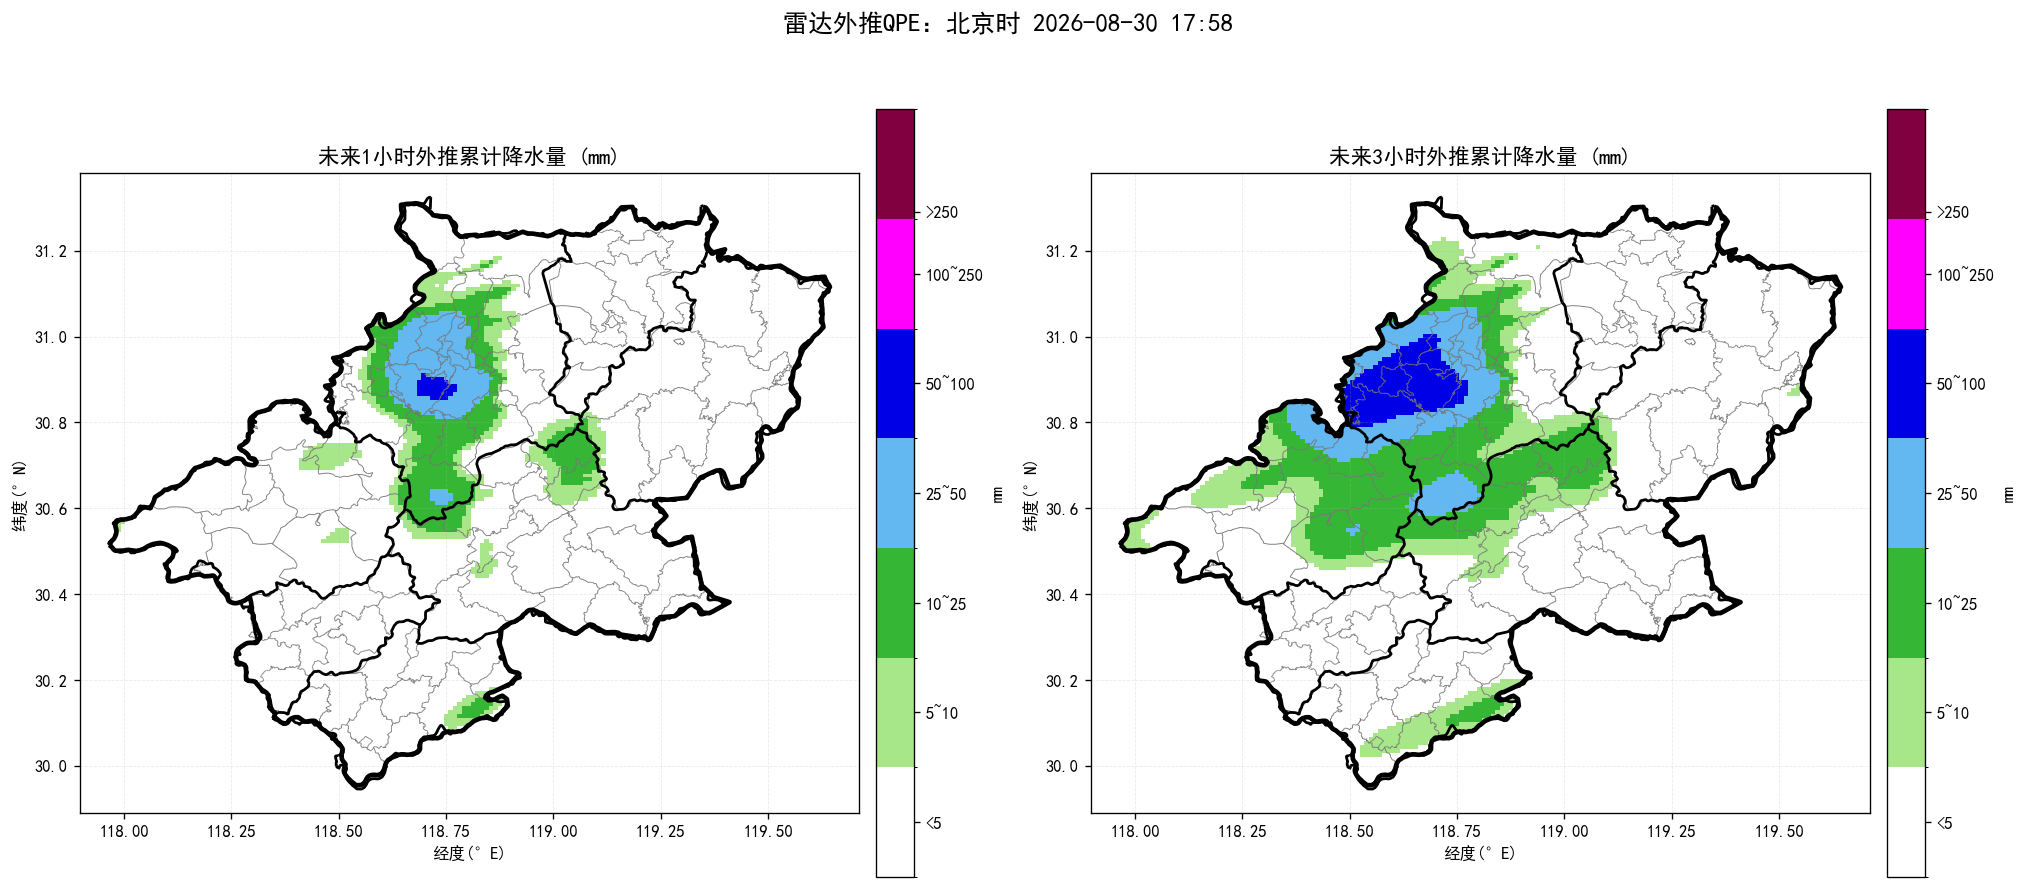
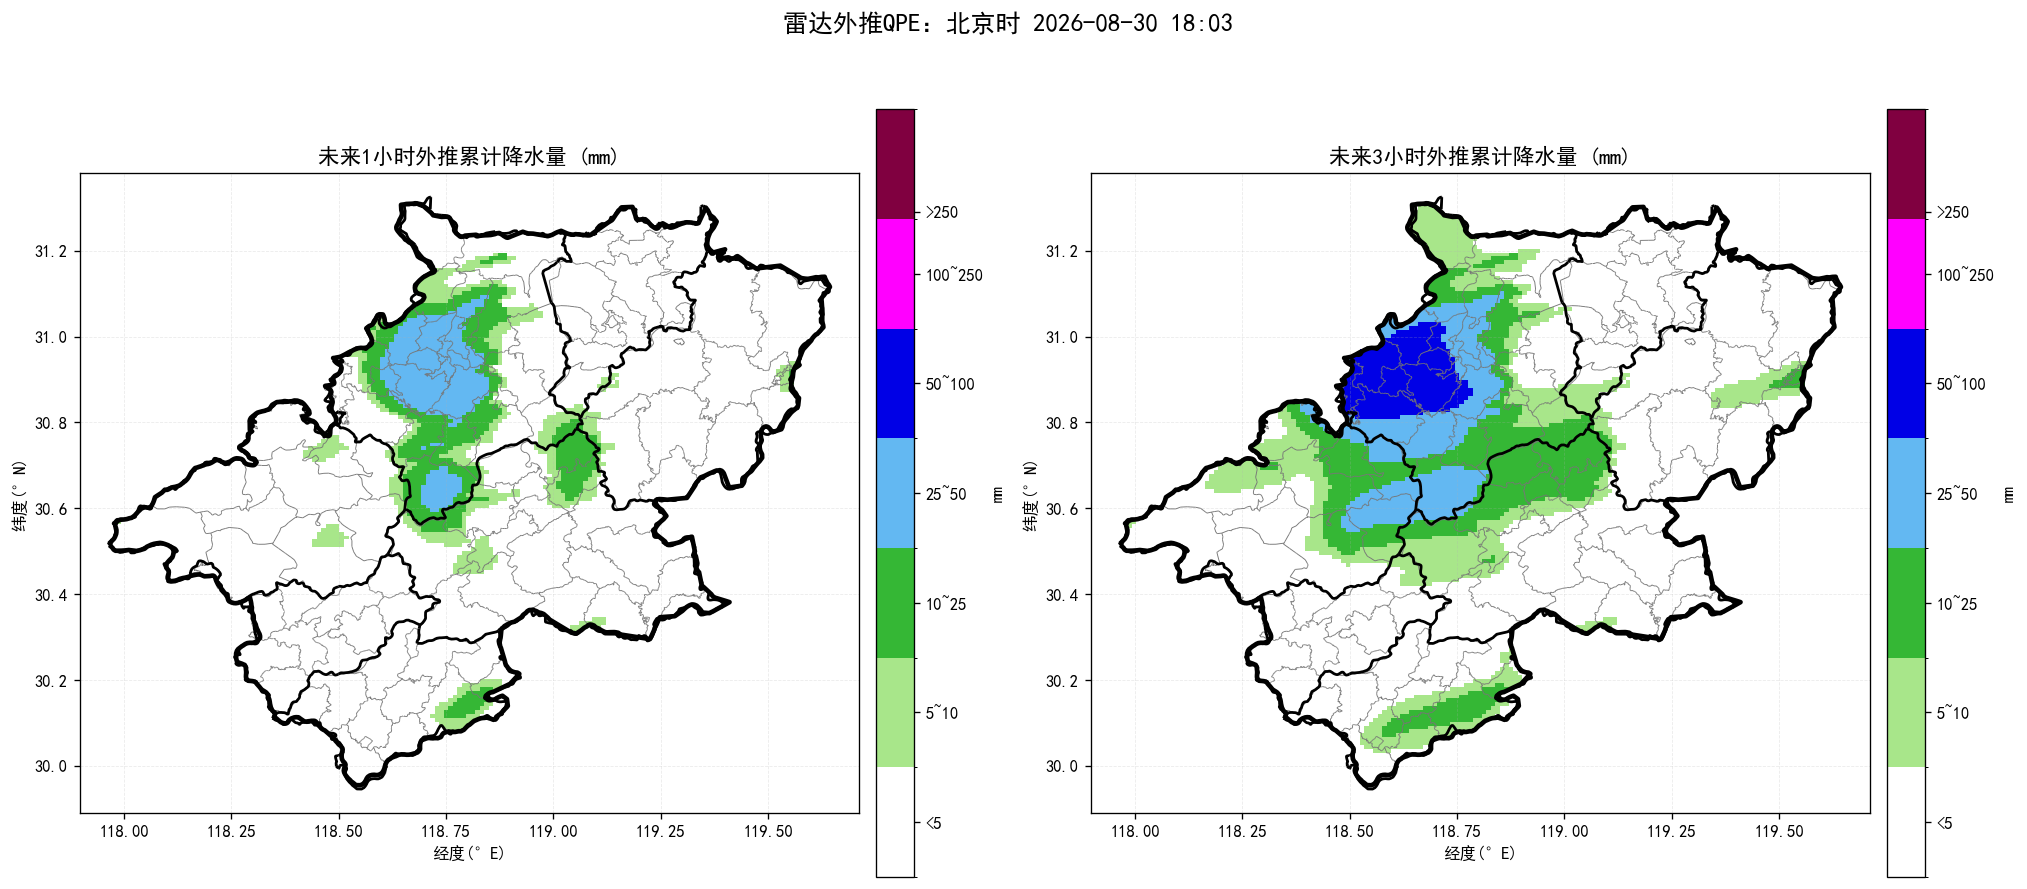
update nowcast products

diff --git a/index.html b/index.html
@@ -14,14 +14,14 @@ img.product{display:block;width:100%;height:auto;margin:10px auto 26px;border:1p
 .footer{font-size:13px;color:#777;text-align:center;margin-top:30px}
 @media(max-width:700px){.sheet{margin:0;padding:18px 15px}.alert-title{font-size:22px}.county-line{font-size:17px}.prob{font-size:18px}}
 </style></head><body><main class="sheet">
-<div class="time">起报时间：北京时 2026-08-30 17:58</div>
-<div class="alert-title">未来一小时降水量超过 20 毫米的乡镇：</div><div class="county-line">宣州区：金坝街道、向阳镇、鳌峰街道、飞彩街道、西林街道、敬亭山街道、古泉镇、澄江街道、济川街道、养贤乡、五星乡、周王镇、黄渡乡、杨柳镇、双桥街道、新田镇、朱桥乡、溪口镇、寒亭镇、孙埠镇、沈村镇；</div><div class="county-line">宁国市：天湖街道</div>
-<div class="alert-title">未来三小时降水量超过 50 毫米的乡镇：</div><div class="county-line">宣州区：金坝街道、杨柳镇、向阳镇、鳌峰街道、飞彩街道、古泉镇、文昌镇、寒亭镇、敬亭山街道；</div><div class="county-line">宁国市：天湖街道；</div><div class="county-line">泾县：琴溪镇</div>
-<div class="alert-title">未来三小时雷暴大风（组合反射率 > 55 dBZ）的乡镇：</div><div class="county-line">宣州区：向阳镇</div>
-<div class="prob">最大降水量概率预估：宣城市范围内未来三小时累计降水达到50毫米概率约99%，达到80毫米概率约85%，达到100毫米概率约46%。</div>
-<div class="section-title">未来降水预报图：</div><img class="product auto-refresh-product" data-src="短临降水预报.png" src="短临降水预报.png?v=20260830180401" alt="未来降水预报图">
-<div class="section-title">未来三小时组合反射率图：</div><img class="product auto-refresh-product" data-src="未来3小时组合反射率.png" src="未来3小时组合反射率.png?v=20260830180401" alt="未来三小时组合反射率图">
-<div class="section-title">未来三小时雷暴大风图：</div><img class="product auto-refresh-product" data-src="未来3小时雷暴大风.png" src="未来3小时雷暴大风.png?v=20260830180401" alt="未来三小时雷暴大风图">
+<div class="time">起报时间：北京时 2026-08-30 18:03</div>
+<div class="alert-title">未来一小时降水量超过 20 毫米的乡镇：</div><div class="county-line">宣州区：金坝街道、向阳镇、古泉镇、飞彩街道、鳌峰街道、西林街道、敬亭山街道、澄江街道、济川街道、溪口镇、寒亭镇、五星乡、双桥街道、养贤乡、黄渡乡、周王镇、杨柳镇、朱桥乡、新田镇、沈村镇、孙埠镇；</div><div class="county-line">宁国市：天湖街道、青龙乡、汪溪街道</div>
+<div class="alert-title">未来三小时降水量超过 50 毫米的乡镇：</div><div class="county-line">宣州区：金坝街道、古泉镇、杨柳镇、寒亭镇、飞彩街道、向阳镇、文昌镇、鳌峰街道、敬亭山街道、西林街道、周王镇；</div><div class="county-line">宁国市：天湖街道；</div><div class="county-line">泾县：琴溪镇</div>
+<div class="alert-title">未来三小时雷暴大风（组合反射率 > 55 dBZ）的乡镇：</div><div class="county-line">宣州区：沈村镇</div>
+<div class="prob">最大降水量概率预估：宣城市范围内未来三小时累计降水达到50毫米概率约99%，达到80毫米概率约95%，达到100毫米概率约63%。</div>
+<div class="section-title">未来降水预报图：</div><img class="product auto-refresh-product" data-src="短临降水预报.png" src="短临降水预报.png?v=20260830180940" alt="未来降水预报图">
+<div class="section-title">未来三小时组合反射率图：</div><img class="product auto-refresh-product" data-src="未来3小时组合反射率.png" src="未来3小时组合反射率.png?v=20260830180940" alt="未来三小时组合反射率图">
+<div class="section-title">未来三小时雷暴大风图：</div><img class="product auto-refresh-product" data-src="未来3小时雷暴大风.png" src="未来3小时雷暴大风.png?v=20260830180940" alt="未来三小时雷暴大风图">
 <div class="footer">三张产品图每 60 秒自动刷新一次；每次请求自动附加新的URL参数以绕过缓存。</div>
 <script>
 (function() {
